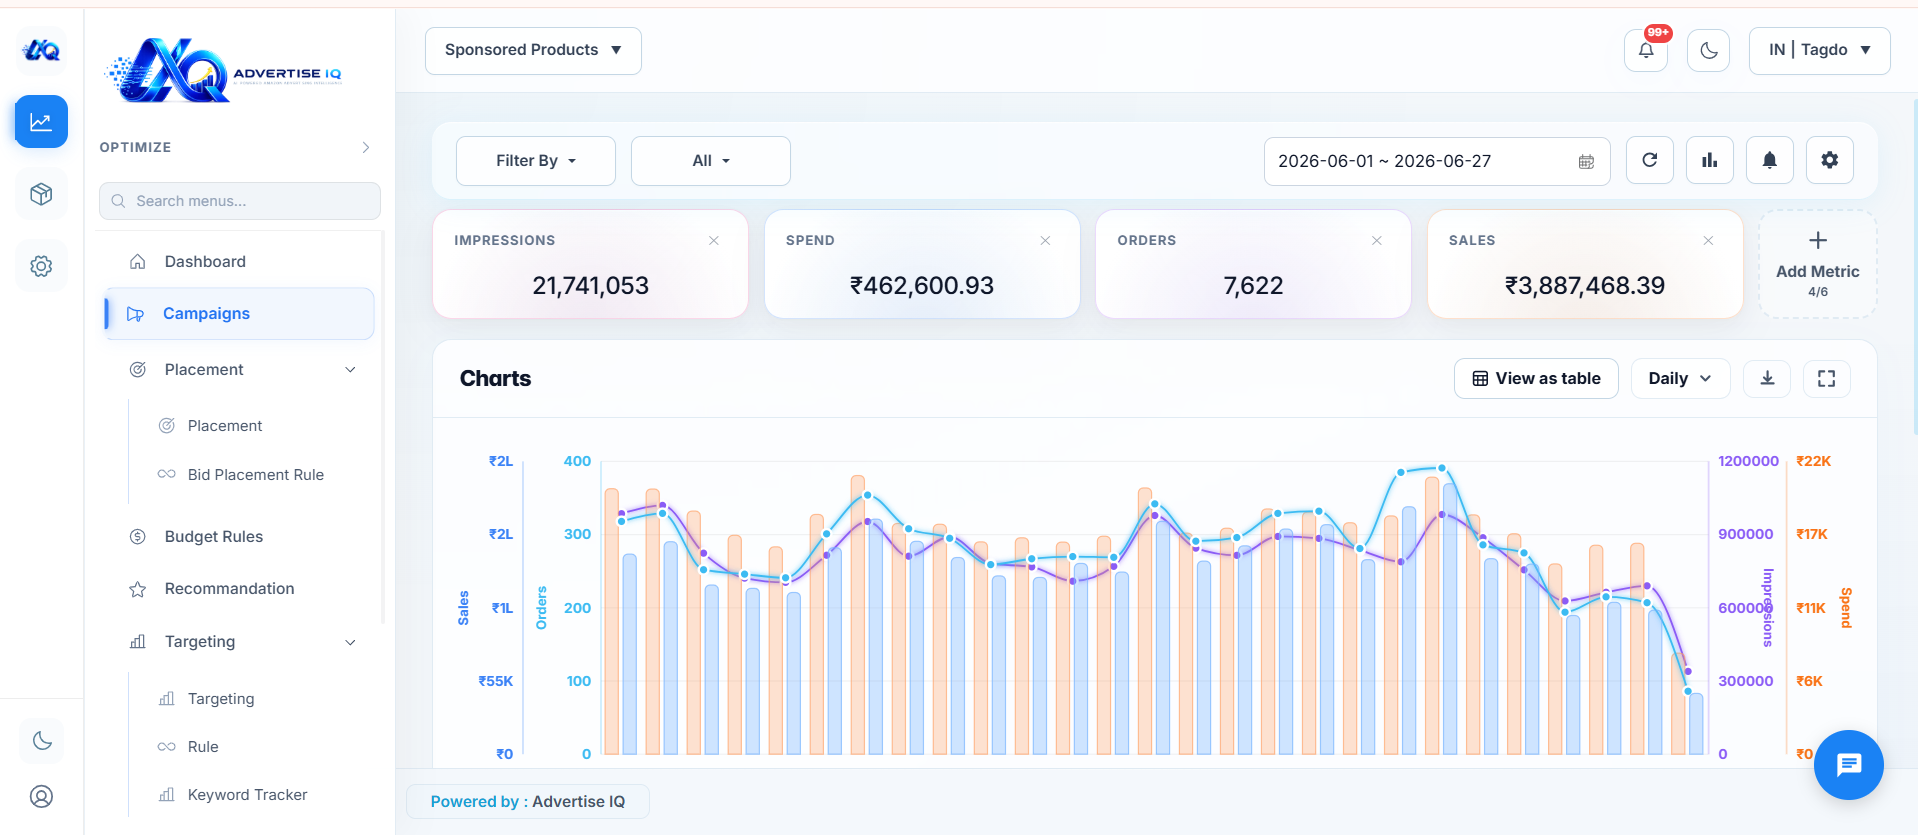
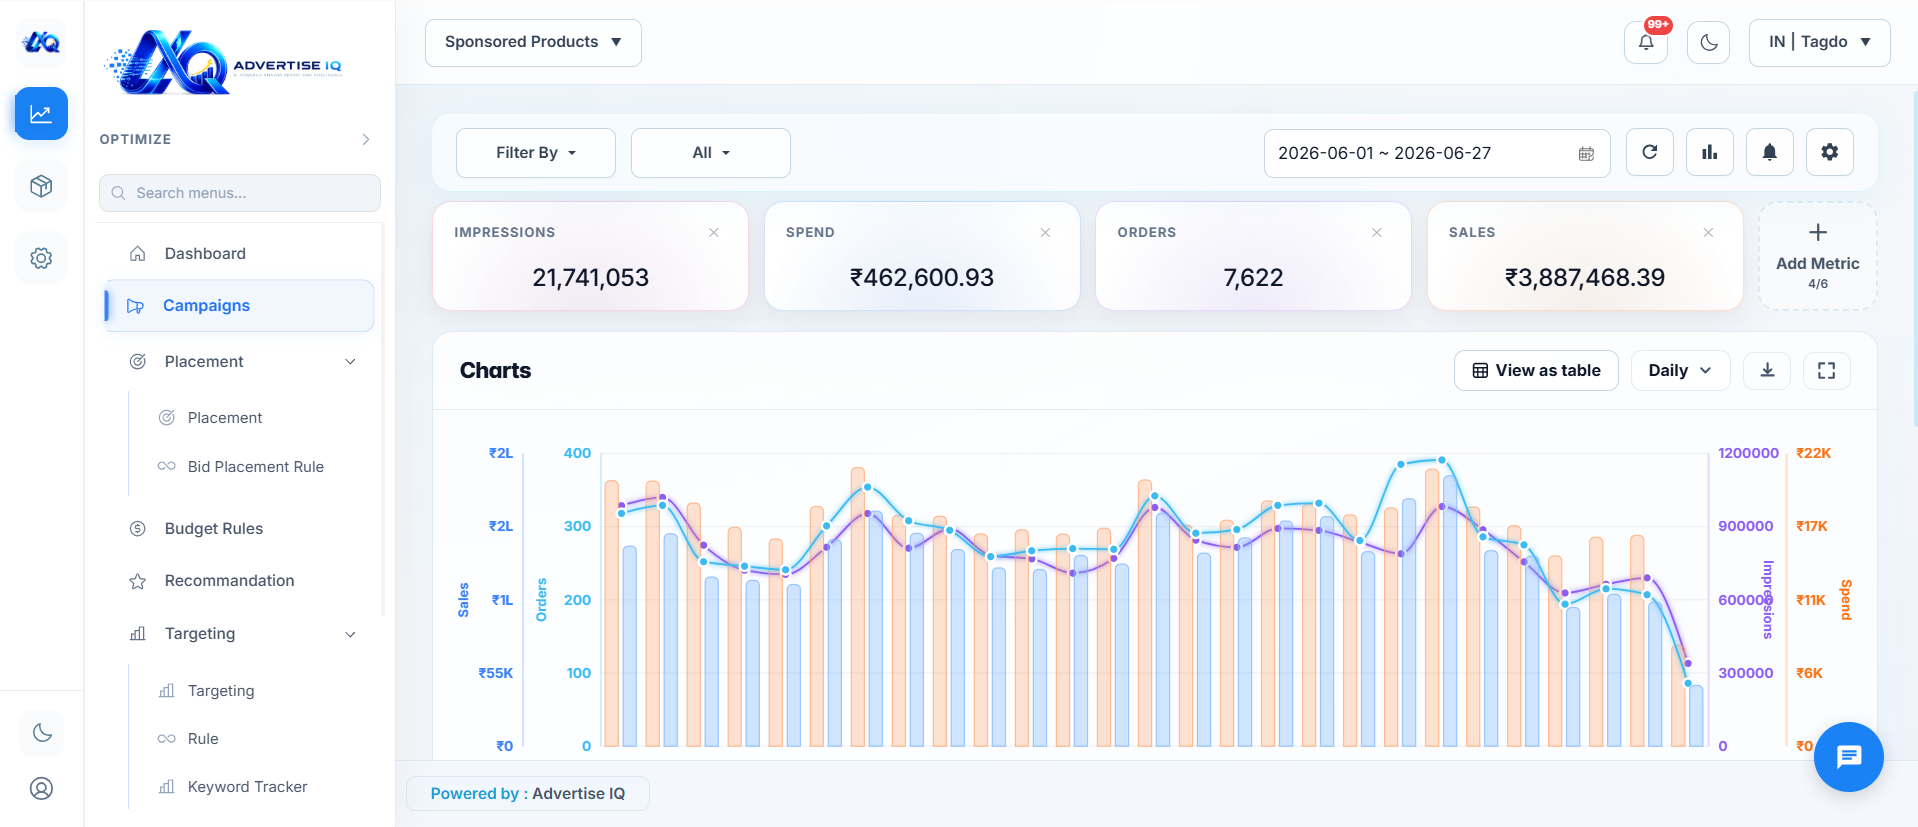
feat: format index.html layout and add new assets and dashboard images

diff --git a/index.html b/index.html
@@ -254,18 +254,23 @@
       </div>
 
       <div class="ftab-accordion-wrap" data-aos="fade-up" data-aos-delay="100">
-        
+
         <!-- ── Mobile Tab Nav ── -->
         <div class="mobile-tab-nav">
-          <button class="mtab-btn active" data-tab="0"><span class="ftab-icon blue"><i class="bi bi-search"></i></span></button>
-          <button class="mtab-btn" data-tab="1"><span class="ftab-icon purple"><i class="bi bi-lightning-charge-fill"></i></span></button>
-          <button class="mtab-btn" data-tab="2"><span class="ftab-icon green"><i class="bi bi-bar-chart-line-fill"></i></span></button>
-          <button class="mtab-btn" data-tab="3"><span class="ftab-icon orange"><i class="bi bi-clock-history"></i></span></button>
-          <button class="mtab-btn" data-tab="4"><span class="ftab-icon cyan"><i class="bi bi-shield-check"></i></span></button>
+          <button class="mtab-btn active" data-tab="0"><span class="ftab-icon blue"><i
+                class="bi bi-search"></i></span></button>
+          <button class="mtab-btn" data-tab="1"><span class="ftab-icon purple"><i
+                class="bi bi-lightning-charge-fill"></i></span></button>
+          <button class="mtab-btn" data-tab="2"><span class="ftab-icon green"><i
+                class="bi bi-bar-chart-line-fill"></i></span></button>
+          <button class="mtab-btn" data-tab="3"><span class="ftab-icon orange"><i
+                class="bi bi-clock-history"></i></span></button>
+          <button class="mtab-btn" data-tab="4"><span class="ftab-icon cyan"><i
+                class="bi bi-shield-check"></i></span></button>
         </div>
 
         <!-- ── Accordion Items ── -->
-        
+
         <!-- Panel 0: Keyword Harvesting -->
         <div class="accordion-item active" data-panel="0">
           <div class="accordion-header">
@@ -275,9 +280,11 @@
           <div class="accordion-content">
             <div class="ftab-panel active">
               <div class="ftab-panel-header">
-                <div class="ftab-metric-badge blue-badge"><i class="bi bi-arrow-down-circle-fill"></i> −41% Wasted Spend</div>
+                <div class="ftab-metric-badge blue-badge"><i class="bi bi-arrow-down-circle-fill"></i> −41% Wasted Spend
+                </div>
                 <h3>Keyword Harvesting</h3>
-                <p>Automatically discovers high-converting search terms and promotes them to exact match campaigns. Bleeding terms are negated instantly — zero manual effort required.</p>
+                <p>Automatically discovers high-converting search terms and promotes them to exact match campaigns.
+                  Bleeding terms are negated instantly — zero manual effort required.</p>
               </div>
               <div class="ftab-panel-viz">
                 <div class="kw-harvest-viz">
@@ -318,7 +325,8 @@
               <div class="ftab-panel-header">
                 <div class="ftab-metric-badge purple-badge"><i class="bi bi-graph-up-arrow"></i> +32% ROAS</div>
                 <h3>AI Bid Optimization</h3>
-                <p>Our machine learning engine adjusts bids hourly based on live ROAS, target ACOS, and conversion velocity — maximising profit around the clock without manual work.</p>
+                <p>Our machine learning engine adjusts bids hourly based on live ROAS, target ACOS, and conversion
+                  velocity — maximising profit around the clock without manual work.</p>
               </div>
               <div class="ftab-panel-viz">
                 <div class="bid-chart-viz">
@@ -350,32 +358,41 @@
           <div class="accordion-content">
             <div class="ftab-panel">
               <div class="ftab-panel-header">
-                <div class="ftab-metric-badge green-badge"><i class="bi bi-currency-dollar"></i> Real-time Profit Tracking</div>
+                <div class="ftab-metric-badge green-badge"><i class="bi bi-currency-dollar"></i> Real-time Profit
+                  Tracking</div>
                 <h3>Profitability Analytics</h3>
-                <p>Track true profit margins, ACOS, and TACOS in real-time across all your global Amazon marketplaces — unified dashboards that surface what actually moves the needle.</p>
+                <p>Track true profit margins, ACOS, and TACOS in real-time across all your global Amazon marketplaces —
+                  unified dashboards that surface what actually moves the needle.</p>
               </div>
               <div class="ftab-panel-viz">
                 <div class="profit-metrics-viz">
                   <div class="pm-row">
                     <span class="pm-label">Total Revenue</span>
-                    <span class="pm-bar-wrap"><span class="pm-bar" style="width:88%;background:linear-gradient(90deg,#3b82f6,#60a5fa)"></span></span>
+                    <span class="pm-bar-wrap"><span class="pm-bar"
+                        style="width:88%;background:linear-gradient(90deg,#3b82f6,#60a5fa)"></span></span>
                     <span class="pm-val">$84,230</span>
                   </div>
                   <div class="pm-row">
                     <span class="pm-label">Ad Spend</span>
-                    <span class="pm-bar-wrap"><span class="pm-bar" style="width:22%;background:linear-gradient(90deg,#f97316,#fb923c)"></span></span>
+                    <span class="pm-bar-wrap"><span class="pm-bar"
+                        style="width:22%;background:linear-gradient(90deg,#f97316,#fb923c)"></span></span>
                     <span class="pm-val">$8,400</span>
                   </div>
                   <div class="pm-row">
                     <span class="pm-label">Net Profit</span>
-                    <span class="pm-bar-wrap"><span class="pm-bar" style="width:66%;background:linear-gradient(90deg,#10b981,#34d399)"></span></span>
+                    <span class="pm-bar-wrap"><span class="pm-bar"
+                        style="width:66%;background:linear-gradient(90deg,#10b981,#34d399)"></span></span>
                     <span class="pm-val">$32,190</span>
                   </div>
                   <div class="pm-stats">
-                    <div class="pm-stat"><span class="pm-stat-val">10.2%</span><span class="pm-stat-lbl">ACOS</span></div>
-                    <div class="pm-stat"><span class="pm-stat-val">4.1%</span><span class="pm-stat-lbl">TACOS</span></div>
-                    <div class="pm-stat"><span class="pm-stat-val">3.2×</span><span class="pm-stat-lbl">ROAS</span></div>
-                    <div class="pm-stat"><span class="pm-stat-val">38%</span><span class="pm-stat-lbl">Margin</span></div>
+                    <div class="pm-stat"><span class="pm-stat-val">10.2%</span><span class="pm-stat-lbl">ACOS</span>
+                    </div>
+                    <div class="pm-stat"><span class="pm-stat-val">4.1%</span><span class="pm-stat-lbl">TACOS</span>
+                    </div>
+                    <div class="pm-stat"><span class="pm-stat-val">3.2×</span><span class="pm-stat-lbl">ROAS</span>
+                    </div>
+                    <div class="pm-stat"><span class="pm-stat-val">38%</span><span class="pm-stat-lbl">Margin</span>
+                    </div>
                   </div>
                 </div>
               </div>
@@ -392,9 +409,11 @@
           <div class="accordion-content">
             <div class="ftab-panel">
               <div class="ftab-panel-header">
-                <div class="ftab-metric-badge orange-badge"><i class="bi bi-clock-fill"></i> +24% Budget Efficiency</div>
+                <div class="ftab-metric-badge orange-badge"><i class="bi bi-clock-fill"></i> +24% Budget Efficiency
+                </div>
                 <h3>Dynamic Dayparting</h3>
-                <p>Automatically boost bids during peak shopping windows and reduce them during low-conversion hours — every dollar spent when customers are most ready to buy.</p>
+                <p>Automatically boost bids during peak shopping windows and reduce them during low-conversion hours —
+                  every dollar spent when customers are most ready to buy.</p>
               </div>
               <div class="ftab-panel-viz">
                 <div class="daypart-viz">
@@ -451,23 +470,33 @@
               <div class="ftab-panel-header">
                 <div class="ftab-metric-badge cyan-badge"><i class="bi bi-box-seam"></i> −28% Stockouts</div>
                 <h3>Inventory Protection</h3>
-                <p>Never waste spend on out-of-stock items. Campaigns pause automatically when stock drops below your threshold — and resume the moment inventory is replenished.</p>
+                <p>Never waste spend on out-of-stock items. Campaigns pause automatically when stock drops below your
+                  threshold — and resume the moment inventory is replenished.</p>
               </div>
               <div class="ftab-panel-viz">
                 <div class="inv-viz">
                   <div class="inv-row">
                     <span class="inv-name">Premium Headphones XR1</span>
-                    <div class="inv-bar-wrap"><div class="inv-bar" style="width:76%;background:linear-gradient(90deg,#10b981,#34d399)"></div><span class="inv-threshold"></span></div>
+                    <div class="inv-bar-wrap">
+                      <div class="inv-bar" style="width:76%;background:linear-gradient(90deg,#10b981,#34d399)"></div>
+                      <span class="inv-threshold"></span>
+                    </div>
                     <span class="inv-count inv-ok">382 units</span>
                   </div>
                   <div class="inv-row">
                     <span class="inv-name">Wireless Charger Pro</span>
-                    <div class="inv-bar-wrap"><div class="inv-bar" style="width:24%;background:linear-gradient(90deg,#f59e0b,#fbbf24)"></div><span class="inv-threshold"></span></div>
+                    <div class="inv-bar-wrap">
+                      <div class="inv-bar" style="width:24%;background:linear-gradient(90deg,#f59e0b,#fbbf24)"></div>
+                      <span class="inv-threshold"></span>
+                    </div>
                     <span class="inv-count inv-warn">48 units ⚠</span>
                   </div>
                   <div class="inv-row">
                     <span class="inv-name">Sport Earbuds V2</span>
-                    <div class="inv-bar-wrap"><div class="inv-bar" style="width:9%;background:linear-gradient(90deg,#ef4444,#f87171)"></div><span class="inv-threshold"></span></div>
+                    <div class="inv-bar-wrap">
+                      <div class="inv-bar" style="width:9%;background:linear-gradient(90deg,#ef4444,#f87171)"></div>
+                      <span class="inv-threshold"></span>
+                    </div>
                     <span class="inv-count inv-danger">12 units</span>
                   </div>
                   <div class="inv-alert">
@@ -822,8 +851,9 @@
     <div class="section-wrapper toolkit-split">
       <div class="toolkit-content" data-aos="fade-right">
         <div class="section-tag"><i class="bi bi-robot"></i> AI-POWERED ENGINE</div>
-        <h2>A Platform That<br/><span class="gradient-text">Thinks While You Sleep</span></h2>
-        <p>AdvertiseIQ's AI engine runs 24/7 in the background — analyzing trends, adjusting bids, pausing waste, and seizing opportunity the moment it appears. Zero manual work required.</p>
+        <h2>A Platform That<br /><span class="gradient-text">Thinks While You Sleep</span></h2>
+        <p>AdvertiseIQ's AI engine runs 24/7 in the background — analyzing trends, adjusting bids, pausing waste, and
+          seizing opportunity the moment it appears. Zero manual work required.</p>
         <div class="toolkit-actions">
           <a href="contact-us.html" class="btn-primary">Start Free Trial <i class="bi bi-arrow-right"></i></a>
           <a href="pricing.html" class="btn-secondary outline">See Plans</a>
@@ -885,7 +915,9 @@
             <span class="fd green"></span>
             <span class="frame-url">app.advertiseiq.co/dashboard</span>
           </div>
-          <img src="assets/img/dashboard-img.png" alt="AdvertiseIQ Dashboard" class="dashboard-img"
+          <img src="assets/img/dashboard-img.png" alt="AdvertiseIQ Dashboard Light" class="dashboard-img theme-img-light"
+            onerror="this.style.display='none'; document.getElementById('dash-placeholder').style.display='flex'" />
+          <img src="assets/img/dashboard-img-dark.png" alt="AdvertiseIQ Dashboard Dark" class="dashboard-img theme-img-dark"
             onerror="this.style.display='none'; document.getElementById('dash-placeholder').style.display='flex'" />
           <div class="dashboard-placeholder" id="dash-placeholder">
             <i class="bi bi-display-fill"></i>
@@ -1092,6 +1124,88 @@
         <div class="testimonials-marquee">
           <!-- Marquee Track 1 -->
           <div class="marquee-track track-left">
+            <div class="testimonial-card">
+              <div class="stars"><i class="bi bi-star-fill"></i><i class="bi bi-star-fill"></i><i
+                  class="bi bi-star-fill"></i><i class="bi bi-star-fill"></i><i class="bi bi-star-fill"></i></div>
+              <p class="quote">"We closed 3 new SEO clients in the first week. The fact that every email had an actual
+                personalised audit report attached was the game-changer."</p>
+              <div class="author">
+                <div class="avatar" style="background: #4f46e5;">PK</div>
+                <div class="author-info">
+                  <div class="name">Prakash Kudale</div>
+                  <div class="title">Founder - DigitalEdge Agency</div>
+                </div>
+              </div>
+            </div>
+
+            <div class="testimonial-card">
+              <div class="stars"><i class="bi bi-star-fill"></i><i class="bi bi-star-fill"></i><i
+                  class="bi bi-star-fill"></i><i class="bi bi-star-fill"></i><i class="bi bi-star-fill"></i></div>
+              <p class="quote">"As a solo consultant, I used to spend 3 hours researching one lead. This finds them,
+                audits them, and helps me pitch them - in under 10 minutes."</p>
+              <div class="author">
+                <div class="avatar" style="background: #059669;">RL</div>
+                <div class="author-info">
+                  <div class="name">Richa Lathiya</div>
+                  <div class="title">Freelance SEO Consultant</div>
+                </div>
+              </div>
+            </div>
+
+            <div class="testimonial-card">
+              <div class="stars"><i class="bi bi-star-fill"></i><i class="bi bi-star-fill"></i><i
+                  class="bi bi-star-fill"></i><i class="bi bi-star-fill"></i><i class="bi bi-star-fill"></i></div>
+              <p class="quote">"We switched from manual search to just one tool, half the cost, twice the results."</p>
+              <div class="author">
+                <div class="avatar" style="background: #e11d48;">NK</div>
+                <div class="author-info">
+                  <div class="name">Nishant Kakadiya</div>
+                  <div class="title">Sales Head - GrowthStack</div>
+                </div>
+              </div>
+            </div>
+
+            <div class="testimonial-card">
+              <div class="stars"><i class="bi bi-star-fill"></i><i class="bi bi-star-fill"></i><i
+                  class="bi bi-star-fill"></i><i class="bi bi-star-fill"></i><i class="bi bi-star-fill"></i></div>
+              <p class="quote">"We closed 3 new SEO clients in the first week. The fact that every email had an actual
+                personalised audit report attached was the game-changer."</p>
+              <div class="author">
+                <div class="avatar" style="background: #4f46e5;">PK</div>
+                <div class="author-info">
+                  <div class="name">Prakash Kudale</div>
+                  <div class="title">Founder - DigitalEdge Agency</div>
+                </div>
+              </div>
+            </div>
+
+            <div class="testimonial-card">
+              <div class="stars"><i class="bi bi-star-fill"></i><i class="bi bi-star-fill"></i><i
+                  class="bi bi-star-fill"></i><i class="bi bi-star-fill"></i><i class="bi bi-star-fill"></i></div>
+              <p class="quote">"As a solo consultant, I used to spend 3 hours researching one lead. This finds them,
+                audits them, and helps me pitch them - in under 10 minutes."</p>
+              <div class="author">
+                <div class="avatar" style="background: #059669;">RL</div>
+                <div class="author-info">
+                  <div class="name">Richa Lathiya</div>
+                  <div class="title">Freelance SEO Consultant</div>
+                </div>
+              </div>
+            </div>
+
+            <div class="testimonial-card">
+              <div class="stars"><i class="bi bi-star-fill"></i><i class="bi bi-star-fill"></i><i
+                  class="bi bi-star-fill"></i><i class="bi bi-star-fill"></i><i class="bi bi-star-fill"></i></div>
+              <p class="quote">"We switched from manual search to just one tool, half the cost, twice the results."</p>
+              <div class="author">
+                <div class="avatar" style="background: #e11d48;">NK</div>
+                <div class="author-info">
+                  <div class="name">Nishant Kakadiya</div>
+                  <div class="title">Sales Head - GrowthStack</div>
+                </div>
+              </div>
+            </div>
+
             <div class="testimonial-card">
               <div class="stars"><i class="bi bi-star-fill"></i><i class="bi bi-star-fill"></i><i
                   class="bi bi-star-fill"></i><i class="bi bi-star-fill"></i><i class="bi bi-star-fill"></i></div>
@@ -1410,7 +1524,7 @@
       function setActive(index) {
         accordionItems.forEach(item => item.classList.remove('active'));
         mtabs.forEach(tab => tab.classList.remove('active'));
-        
+
         if (accordionItems[index]) accordionItems[index].classList.add('active');
         if (mtabs[index]) mtabs[index].classList.add('active');
       }

diff --git a/assets/css/index.css b/assets/css/index.css
@@ -6403,6 +6403,31 @@ button[type="submit"] {
   box-shadow: 0 40px 80px -15px rgba(0, 0, 0, 0.3), inset 0 1px 0 rgba(255, 255, 255, 0.2);
 }
 
+/* Theme Image Switching */
+.theme-img-dark {
+  display: block !important;
+  width: 100%;
+  height: auto;
+  border-radius: 12px;
+  object-fit: cover;
+}
+
+.theme-img-light {
+  display: none !important;
+  width: 100%;
+  height: auto;
+  border-radius: 12px;
+  object-fit: cover;
+}
+
+[data-theme="light"] .theme-img-dark {
+  display: none !important;
+}
+
+[data-theme="light"] .theme-img-light {
+  display: block !important;
+}
+
 .toolkit-img {
   width: 100%;
   height: auto;